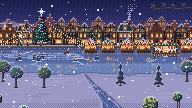
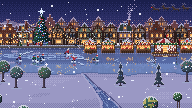
feat: polish secret scenery

diff --git a/web/envs/frozen_market.js b/web/envs/frozen_market.js
@@ -263,11 +263,12 @@ const ICE = {
   dusk: { far: '#3c4a86', near: '#6e86c0', gloss: '#b2caee', crack: '#d6e4fa', crackD: '#2a3264', trail: '#9cb4e0' },
   night: { far: '#101a3a', near: '#243a6a', gloss: '#5e7cb4', crack: '#8eaad6', crackD: '#080e22', trail: '#46628e' },
   dawn: { far: '#6c78a8', near: '#9eb2d6', gloss: '#e4ecf8', crack: '#f4f6fc', crackD: '#4c5484', trail: '#c8d6ee' },
+  golden: { far: '#44508a', near: '#8a9ccc', gloss: '#f6dcdc', crack: '#fbe8e6', crackD: '#2c3262', trail: '#b8c2e2' },  // (still blue, the low sun glinting on it)
   day: { far: '#6e9ac4', near: '#a4c8e6', gloss: '#e8f4fc', crack: '#f8fcff', crackD: '#4a78a8', trail: '#cfe4f4' },
 };
 const ICEP = {};
 function icePal(th) {
-  const h = ICE[th.xh] ? th.xh : 'dusk';
+  const h = th.xg ? 'golden' : ICE[th.xh] ? th.xh : 'dusk';
   if (!ICEP[h]) { ICEP[h] = {}; for (const k in ICE[h]) ICEP[h][k] = hex(ICE[h][k]); }
   return ICEP[h];
 }
@@ -332,11 +333,12 @@ function townPlan(T, th) {
   // the quay: its snowy top, two rows of wall, then the ice; the stalls stand a few rows out on it
   const I0 = B + 4, SB = Math.min(VE - 3, I0 + Math.max(3, Math.min(6, Math.round((VL - I0) * 0.4))));
   const big = VB >= 48;
-  const out = { chimneys: [], stalls: [], lights: [], I0, SB };
+  const out = { chimneys: [], stalls: [], lights: [], wins: [], I0, SB };
 
   /* a window of w x h panes-worth, lit or dark, with a sill */
   const win = (x, y, w, h, on) => {
     rect(x, y, x + w - 1, y + h - 1, on ? M.WL : M.WD);
+    if (!depth && w === 2 && h === 3) out.wins.push([x, y, on]);  // (a front-row window, for the ones that change)
     if (!on) set(x, y, M.WD, 1);  // a glint of sky in the top corner
   };
   /* a front-gabled half-timbered house */
@@ -560,6 +562,10 @@ function townPlan(T, th) {
     if (get(x, y) === M.FIR) set(x, y, M.GL, 8 + (i % 3));
   }
   rect(treeX - 1, B - 3, treeX + 1, B, M.WOOD, 0);
+  // presents under it, either side of the trunk: a red one, a blue one, a little green one, their ribbons in snow-white
+  rect(treeX - 5, B - 1, treeX - 3, B, M.SIGN, 0); set(treeX - 4, B - 1, M.SNOW); set(treeX - 4, B, M.SNOW); set(treeX - 4, B - 2, M.SNOW, 1);
+  rect(treeX + 2, B - 2, treeX + 4, B, M.SIGN, 2); rect(treeX + 2, B - 1, treeX + 4, B - 1, M.SNOW); set(treeX + 3, B - 3, M.SNOW, 1);
+  rect(treeX + 5, B - 1, treeX + 6, B, M.SIGN, 1); set(treeX + 5, B - 1, M.SNOW, 1);
   const star = [[0, -3], [0, -2], [-1, -1], [0, -1], [1, -1], [-3, 0], [-2, 0], [-1, 0], [0, 0], [1, 0], [2, 0], [3, 0], [-1, 1], [0, 1], [1, 1], [-1, 2], [1, 2], [0, 4], [0, 3]];
   for (const [dx, dy] of star) set(treeX + dx, gTop + 1 + dy, M.STAR, dx === 0 && dy === 0 ? 1 : 0);
   out.tree = { x: treeX, top: gTop - 2, star: [treeX, gTop + 1] };
@@ -649,7 +655,7 @@ function townPlan(T, th) {
       for (let s2 = 1; s2 < n; s2++) {
         const q = s2 / n, x = x0 + side * s2, y = Math.round(y0 + (y1 - y0) * q + sag * 4 * q * (1 - q));
         const m = get(x, y); if (m === M.FIR || m === M.GL || m === M.STAR) continue;
-        if (s2 % 2 === 0) set(x, y, M.BULB, s2 % 4 === 0 ? 1 : 0); else set(x, y, M.IRON, 1);
+        if (s2 % 2 === 0) { set(x, y, M.BULB, s2 % 4 === 0 ? 1 : 0); (out.strings || (out.strings = [])).push([x, y, s2]); } else set(x, y, M.IRON, 1);
       }
     }
   }
@@ -658,7 +664,7 @@ function townPlan(T, th) {
   /* ---- the carousel out on the ice (drawn live through a hole: its shape is fixed, its content turns) ---- */
   const CB = Math.min(VE - 2, SB + 1);
   obj = CB;
-  const cw = 25, ch = S(23), cTop = CB - ch;
+  const cw = 25, ch = Math.max(18, S(23)), cTop = CB - ch;  // (a big forest squeezes the town: still taller than the stalls)
   const car = { x: carX, top: cTop, w: cw, h: ch, pts: [], base: CB };
   const cone = Math.round(ch * 0.44), val = 2, plat = 2;
   for (let y = cTop; y <= CB; y++) {
@@ -945,22 +951,22 @@ function carouselFrames(env, T, car, C) {
       else if (j < car.cone) {  // the canopy: red and cream panels converging on the top, turning
         const hw = 1 + (car.w / 2 - 1) * Math.pow((j - 3) / (car.cone - 3), 0.8);
         const a = Math.asin(Math.max(-1, Math.min(1, dx / (hw + 0.5))));
-        const s = Math.floor((a / Math.PI + 0.5) * 6 + ph * 3) & 1;
+        const s = Math.floor((a / Math.PI + 0.5) * 6 + ph * 2) & 1;  // (two panels a sixth of a turn: with the horses, and seamless)
         c = s ? red : cream;
         if (dx > hw * 0.5) c = mix(c, C.timber, 0.35);
         else if (dx < -hw * 0.55 && rimC) c = mix(c, rimC, 0.3);
         if (j === car.cone - 1 || (Math.abs(dx) > hw - 1 && j > 4)) c = mix(c, C.timber, 0.2);
       } else if (j < car.cone + car.val) {  // the valance: scallops and chasing bulbs
         const a = Math.asin(Math.max(-1, Math.min(1, dx / (car.w / 2 + 0.5))));
-        const s = Math.floor((a / Math.PI + 0.5) * 12 + ph * 6) & 1;
-        if (j === car.cone) c = on && ((x + f) % 3 === 0) ? bulbOn : green;
+        const s = Math.floor((a / Math.PI + 0.5) * 12 + ph * 4) & 1;
+        if (j === car.cone) c = (x + f) % 3 === 0 ? bulbOn : green;  // (lit by day too, as the stalls' bulbs are)
         else c = s ? green : mix(green, C.timber, 0.5);
       } else if (j > car.h - car.plat) {  // the platform, bulbs chasing round its rim
-        c = j === car.h - car.plat + 1 ? (on && ((x - f) % 4 === 0) ? bulbWarm : C.woodL) : C.wood;
+        c = j === car.h - car.plat + 1 ? ((x - f) % 4 === 0 ? bulbWarm : C.woodL) : C.wood;
       } else {  // inside: the lit drum with its mirrors, warm dusk behind
         const q = (y - yTop) / Math.max(1, yBot - yTop);
         c = on ? mix(hex('#b4583a'), hex('#5a2a2a'), q) : mix(C.woodS, C.wood, q);
-        if (Math.abs(dx) < 2.5) c = on ? ((y & 1) ? LIT.core : LIT.edge) : C.woodL;  // the drum, lit mirrors
+        if (Math.abs(dx) < 2.5) c = on ? ((y & 1) ? LIT.core : LIT.edge) : mix(C.woodL, (y & 1) ? LIT.core : LIT.edge, 0.55);  // the drum, lit mirrors (by day, a softer glow)
         if (Math.abs(dx) >= car.w / 2 - 1.5) c = C.woodS;
       }
       P(c, x, y);
@@ -968,13 +974,13 @@ function carouselFrames(env, T, car, C) {
     // the horses on their brass-less silver poles: going round, rising and falling
     const list = [];
     for (let n = 0; n < 6; n++) {
-      const a = (n / 6 + ph / 6) * Math.PI * 2, z = Math.cos(a), xx = car.x + Math.sin(a) * (car.w / 2 - 4);
+      const a = (n / 6 - ph / 6) * Math.PI * 2, z = Math.cos(a), xx = car.x + Math.sin(a) * (car.w / 2 - 4);  // (the front ones going left, as the canopy does)
       list.push({ a, z, xx, n });
     }
     list.sort((p, q) => p.z - q.z);
     for (const hs of list) {
       if (hs.z < -0.15) continue;
-      const bob = Math.round(Math.sin(hs.a * 3 + hs.n * 2)), hx = Math.round(hs.xx), hy = Math.round(yTop + (yBot - yTop) / 2 - 2 + bob);
+      const bob = Math.round(Math.sin(hs.a * 3)), hx = Math.round(hs.xx), hy = Math.round(yTop + (yBot - yTop) / 2 - 2 + bob);
       for (let y = yTop; y < yBot; y++) P(on ? hex('#dce0ea') : hex('#9aa0aa'), hx, y);
       const dir = Math.cos(hs.a) >= 0 ? -1 : 1;  // the front ones run left, as it turns
       HORSE.forEach((row, ry) => { for (let rx = 0; rx < 6; rx++) { const ch = row[rx]; if (ch === '.') continue; P(hC[ch], hx + (dir > 0 ? rx - 2 : 2 - rx), hy + ry); } });
@@ -1030,6 +1036,7 @@ function paintSky(env, g) {
     for (let i = 0; i < n; i++) {
       const x = Math.floor(R() * W), y = Math.floor(Math.pow(R(), 1.5) * T.base * 0.7), b = R();
       set(x, y, mix(get(x, y), hex('#f4f0ff'), b > 0.85 ? 0.95 : b > 0.5 ? 0.6 : 0.35));
+      if (b > 0.85) (env.marketStars || (env.marketStars = [])).push([x, y, (hashStr('st' + x + ',' + y) % 628) / 100]);  // (the bright ones twinkle)
       if (b > 0.97) { for (const [dx, dy] of [[1, 0], [-1, 0], [0, 1], [0, -1]]) set(x + dx, y + dy, mix(get(x + dx, y + dy), hex('#c8d0ff'), 0.4)); }
     }
     // the moon, nearly full, with a dithered halo and a darker lower limb
@@ -1194,7 +1201,7 @@ const POSES = {
   fallen: ['p......', 'hf.....', 'sc....b', 'ccclll.'],
   kneel: ['..p..', '.hh..', '.fs..', '.ccl.', 'cc.lb'],
 };
-const SKATE_COATS = ['#b8202e', '#1e3a78', '#1e5a3a', '#6a2a5a', '#e8e2d6', '#2a6a8a', '#8a1a2a'];
+const SKATE_COATS = ['#b8202e', '#1e3a78', '#1e5a3a', '#6a2a5a', '#d8303e', '#2a6a8a', '#e8e2d6'];  // (the fifth: the beginner, in red to be seen on the ice)
 const SKATE_HATS = ['#e8e4dc', '#c02838', '#2e5ad0', '#1e5a3a', '#f0f0f4', '#c02838'];
 const SKATERS = {};
 /* each pose as a list of [dx, dy, colour], for one outfit and one hour, facing either way */
@@ -1202,7 +1209,7 @@ function skaterSprites(th, n) {
   const key = th.xh + '|' + n;
   if (SKATERS[key]) return SKATERS[key];
   const k = dk(th), night = hex('#0e1430');
-  const shade = c => rgb(mix(hex(c), night, (1 - k) * 0.4));
+  const shade = c => rgb(mix(hex(c), night, (1 - k) * 0.22));  // (lit by the market round the rink: they keep their colours after dark)
   const pal = { p: shade('#f6f6fa'), h: shade(SKATE_HATS[n % SKATE_HATS.length]), f: rgb(mix(hex('#6a4a48'), hex('#eac4ac'), Math.max(k, 0.55))),
     s: shade(n % 2 ? '#e8e4dc' : '#c02838'), c: shade(SKATE_COATS[n % SKATE_COATS.length]), l: shade('#1c1a2a'), b: k > 0.5 ? '#46546e' : '#d4deee' };
   const out = {};
@@ -1213,15 +1220,23 @@ function skaterSprites(th, n) {
   }
   return (SKATERS[key] = out);
 }
+/* how far round its loop a skater has come at angle a (signed): the loop's arc, worked out once */
+const SKATE_STRIDE = 7;  // pixels skated a push: the legs change once a stride, gliding through the slow turns
+function arcAt(s, a) {
+  const n = 64, TAU = Math.PI * 2;
+  if (!s.arc) { const A = s.arc = new Float32Array(n + 1); for (let i = 1; i <= n; i++) { const q = (i - 0.5) / n * TAU; A[i] = A[i - 1] + Math.hypot(s.rx * Math.sin(q), s.ry * Math.cos(q)) * TAU / n; } }
+  const b = Math.abs(a) / TAU, turns = Math.floor(b), f = (b - turns) * n, i = Math.min(n - 1, Math.floor(f));
+  return Math.sign(a) * (turns * s.arc[n] + s.arc[i] + (s.arc[i + 1] - s.arc[i]) * (f - i));
+}
 /* where a skater is at time t, and how it stands: { x, y (feet), pose, right } */
 function skaterAt(s, t) {
   if (s.kind === 'loop' || s.kind === 'pair') {
     const a = s.w * t + s.ph, x = s.cx + s.rx * Math.cos(a), y = s.cy + s.ry * Math.sin(a), right = -Math.sin(a) * s.w > 0;
-    return { x, y, right, pose: (Math.floor(t * 1.6 + s.ph) & 1) ? 'glideA' : 'glideB' };
+    return { x, y, right, pose: (Math.floor(arcAt(s, a) / SKATE_STRIDE + s.ph) & 1) ? 'glideA' : 'glideB' };
   }
   if (s.kind === 'line') {  // straight across and round again
     const span = s.x1 - s.x0, x = s.x0 + (((t * s.v + s.ph * span) % span) + span) % span;
-    return { x, y: s.cy, right: s.v > 0, pose: (Math.floor(t * 1.4 + s.ph * 5) & 1) ? 'glideA' : 'glideB' };
+    return { x, y: s.cy, right: s.v > 0, pose: (Math.floor(t * s.v / SKATE_STRIDE + s.ph * 5) & 1) ? 'glideA' : 'glideB' };
   }
   if (s.kind === 'twirl') {  // spins on the spot, then glides a little arc
     const c = (t + s.ph * 10) % 10;
@@ -1230,15 +1245,23 @@ function skaterAt(s, t) {
     return { x: s.cx + Math.sin(a) * s.rx, y: s.cy - (1 - Math.cos(a)) * 0.8, right: Math.cos(a) > 0, pose: 'glideA' };
   }
   // the beginner: wobbles along, arms going, and every so often sits down hard on the ice
-  const c = (t + s.ph * s.period) % s.period, fall = s.period - 2.6;
-  const x = s.cx + Math.sin(Math.min(c, fall) * 0.55) * s.rx;
+  const c = (t + s.ph * s.period) % s.period, fall = s.period - 2.6, wv = Math.PI * 2 / fall;  // (one wobble out and back between falls: he gets up where he sat down)
+  const x = s.cx + Math.sin(Math.min(c, fall) * wv) * s.rx;
   if (c > fall + 1.7) return { x, y: s.cy, right: true, pose: 'kneel' };
-  if (c > fall) return { x, y: s.cy, right: true, pose: 'fallen' };
-  return { x, y: s.cy, right: Math.cos(c * 0.55) > 0, pose: (Math.floor(t * 3.3) & 1) ? 'wobA' : 'wobB' };
+  if (c > fall) return { x, y: s.cy, right: true, pose: 'fallen', hit: c - fall };
+  return { x, y: s.cy, right: Math.cos(c * wv) > 0, pose: (Math.floor(t * 3.3) & 1) ? 'wobA' : 'wobB' };
 }
 function drawSkater(g, spr, st, ok) {
   const X = Math.round(st.x), Y = Math.round(st.y), px = spr[st.pose][st.right ? 'R' : 'L'];
+  if (st.hit < 0.6) {  // the beginner just down: a spray of snow off the ice, up and falling back
+    g.fillStyle = '#f4f8ff';
+    for (const [dx, v] of [[-4, 9], [-2, 13], [1, 11], [3, 14], [5, 8]]) { const x = X + dx + Math.round(dx * st.hit * 2), y = Y - Math.round(v * st.hit - 16 * st.hit * st.hit); if (y <= Y && ok(x, y, Y)) g.fillRect(x, y, 1, 1); }
+  }
   for (const [dx, dy, c] of px) { const x = X + dx, y = Y + dy; if (!ok(x, y, Y)) continue; g.fillStyle = c; g.fillRect(x, y, 1, 1); }
+  // and mirrored in the ice under the blades, faintly: the blades, the legs and the coat
+  g.globalAlpha = 0.45;
+  for (const [dx, dy, c] of px) { if (dy < -3) continue; const x = X + dx, y = Y + 1 - dy; if (!ok(x, y, Y)) continue; g.fillStyle = c; g.fillRect(x, y, 1, 1); }
+  g.globalAlpha = 1;
 }
 
 /* ---------- Santa's sleigh: four reindeer and a laden sleigh, two frames, built once per hour ---------- */
@@ -1399,6 +1422,8 @@ AF.env('frozen_market', {
     }
     if (ov && th.deck && (w === 'cloudy' || w === 'deep_winter')) th.deck = Object.assign({}, th.deck, { top: ov.deck[0], bot: ov.deck[1] });
     if (th.snow && th.xh !== 'day') { th.g0 = th.xh === 'night' ? '#5c6c94' : '#9a98c4'; th.g1 = th.xh === 'night' ? '#36446a' : '#6a6a9a'; th.grass = th.xh === 'night' ? '#7c8cb4' : '#bab8dc'; }
+    // golden hour: the low sun warms the snow (it kept the cold dusk lilac under a peach sky)
+    if (th.xg && !th.rain && !th.fog) { th.g0 = th.snow ? '#a896b8' : '#b098b8'; th.g1 = th.snow ? '#726890' : '#746490'; th.grass = th.snow ? '#ccb6c8' : '#e0bcc4'; th.water = '#8a9ccc'; }
   },
   pals: {
     rounds: [YEW_N], pine: FIR_N, roundAt: th => palsFor(th).fir,
@@ -1545,6 +1570,16 @@ AF.env('frozen_market', {
         const kk = keys.get(land[j] + ',' + land[j + 1] + ',' + land[j + 2]);
         if (kk != null && A() < 0.6) st.tw.push([x, y + hor, kk, A() * 6.28, 0.8 + A() * 2]);
       }
+      // a few windows in the town that now and then light up, or go dark, each on its own slow round
+      st.wins = [];
+      if (T.live) {
+        const ws = T.paint.plan.out.wins, C = T.paint.C, dawn = env.theme.xh === 'dawn';
+        st.winC = { dark: rgb(C.winD), core: rgb(dawn ? mix(LIT.core, C.winD, 0.25) : LIT.core), edge: rgb(dawn ? mix(LIT.edge, C.winD, 0.25) : LIT.edge) };
+        for (let k = 0; k < 60 && st.wins.length < 8 && ws.length; k++) {
+          const [x, y, on] = ws[Math.floor(A() * ws.length)];
+          if (!st.wins.some(q => q.x === x && q.y === y + T.y0)) st.wins.push({ x, y: y + T.y0, on, ph: A() * 120, per: 60 + A() * 80 });
+        }
+      }
     },
     back(g, env, t) {
       const T = env.market; if (!T || !T.live) return;
@@ -1625,6 +1660,14 @@ AF.env('frozen_market', {
         g.fillStyle = 'rgba(255,190,120,.5)'; g.fill(st.fogGlow[0]);
         g.fillStyle = 'rgba(255,200,140,.22)'; g.fill(st.fogGlow[1]);
       }
+      // the windows that have changed, for a while (only where the town shows)
+      for (const wn of st.wins || []) {
+        if ((t + wn.ph) % wn.per > wn.per * 0.4) continue;
+        for (let yy = 0; yy < 3; yy++) for (let xx = 0; xx < 2; xx++) {
+          const X = wn.x + xx, Y = wn.y + yy; if (X >= W || Y >= M2.h || M2.a[Y * W + X] !== 2) continue;
+          g.fillStyle = wn.on ? st.winC.dark : xx === 0 || yy === 0 ? st.winC.edge : st.winC.core; g.fillRect(X, Y, 1, 1);
+        }
+      }
       // Santa's sleigh crossing the sky every few minutes, a trail of sparkles behind; only on open sky
       if (st.sleigh) {
         const dur = SLEIGH_SECS, pAt = (W + 8 + SLEIGH_W / 2 - W * SLEIGH_AT) / (W + 80);
@@ -1641,6 +1684,14 @@ AF.env('frozen_market', {
           }
           const X = Math.round(sx), Y = Math.round(sy);
           for (const [dx, dy, c] of st.sleigh.spr[Math.floor(t * 7) & 1]) { const x = X + dx, y = Y + dy; if (sky(x, y)) { g.fillStyle = c; g.fillRect(x, y, 1, 1); } }
+        }
+      }
+      // the brightest stars twinkle, each in its own time: a little cross of light, on open sky only
+      if (env.marketStars) {
+        g.fillStyle = 'rgba(214,222,255,.7)';
+        for (const [x, y, ph] of env.marketStars) {
+          if (Math.sin(t * 0.7 + ph * 3) < 0.94) continue;
+          for (const [dx, dy] of [[1, 0], [-1, 0], [0, 1], [0, -1]]) { const X = x + dx, Y = y + dy; if (X >= 0 && X < W && Y >= 0 && Y < M2.h && M2.a[Y * W + X] === 1) g.fillRect(X, Y, 1, 1); }
         }
       }
       // steam off the mulled wine and smoke from the chimneys, a pixel at a time
@@ -1681,7 +1732,7 @@ AF.env('frozen_market', {
             const at2 = { x: at.x + (at.right ? -4 : 4), y: at.y + 1, right: at.right, pose: at.pose === 'glideA' ? 'glideB' : 'glideA' };
             drawSkater(g, skaterSprites(env.theme, sk.n + 3), at2, ok);
             const hx = Math.round((at.x + at2.x) / 2), hy = Math.round(at.y) - 3;
-            if (ok(hx, hy, hy + 3)) { g.fillStyle = rgb(mix(hex(SKATE_COATS[sk.n % SKATE_COATS.length]), hex('#0e1430'), (1 - dk(env.theme)) * 0.4)); g.fillRect(hx, hy, 1, 1); }
+            if (ok(hx, hy, hy + 3)) { g.fillStyle = rgb(mix(hex(SKATE_COATS[sk.n % SKATE_COATS.length]), hex('#0e1430'), (1 - dk(env.theme)) * 0.22)); g.fillRect(hx, hy, 1, 1); }
           }
         }
       }
@@ -1702,6 +1753,15 @@ AF.env('frozen_market', {
           px(f.hat, 0, h); px(f.hat, 1, h); if (!f.kid) px(f.hat, 0, h + 1);
           if (warm) { px(warm, f.v < 0 ? 0 : 1, h - 2); }
         }
+      }
+      // the strings of lights from the great tree: a slow wave of bulbs dimming runs out along them
+      if (T.live && lampsOn(env.theme) && T.paint.plan.out.strings) {
+        const dim = new window.Path2D();
+        for (const [x, y, s2] of T.paint.plan.out.strings) {
+          const Y = y + T.y0; if (Y >= M2.h || M2.a[Y * W + x] !== 2 || Math.sin(t * 1.2 - s2 * 0.35) > -0.45) continue;
+          dim.rect(x, Y, 1, 1);
+        }
+        g.fillStyle = '#9a6a48'; g.fill(dim);
       }
       // the star on the great tree glints now and then
       if (T.star && T.live) {
